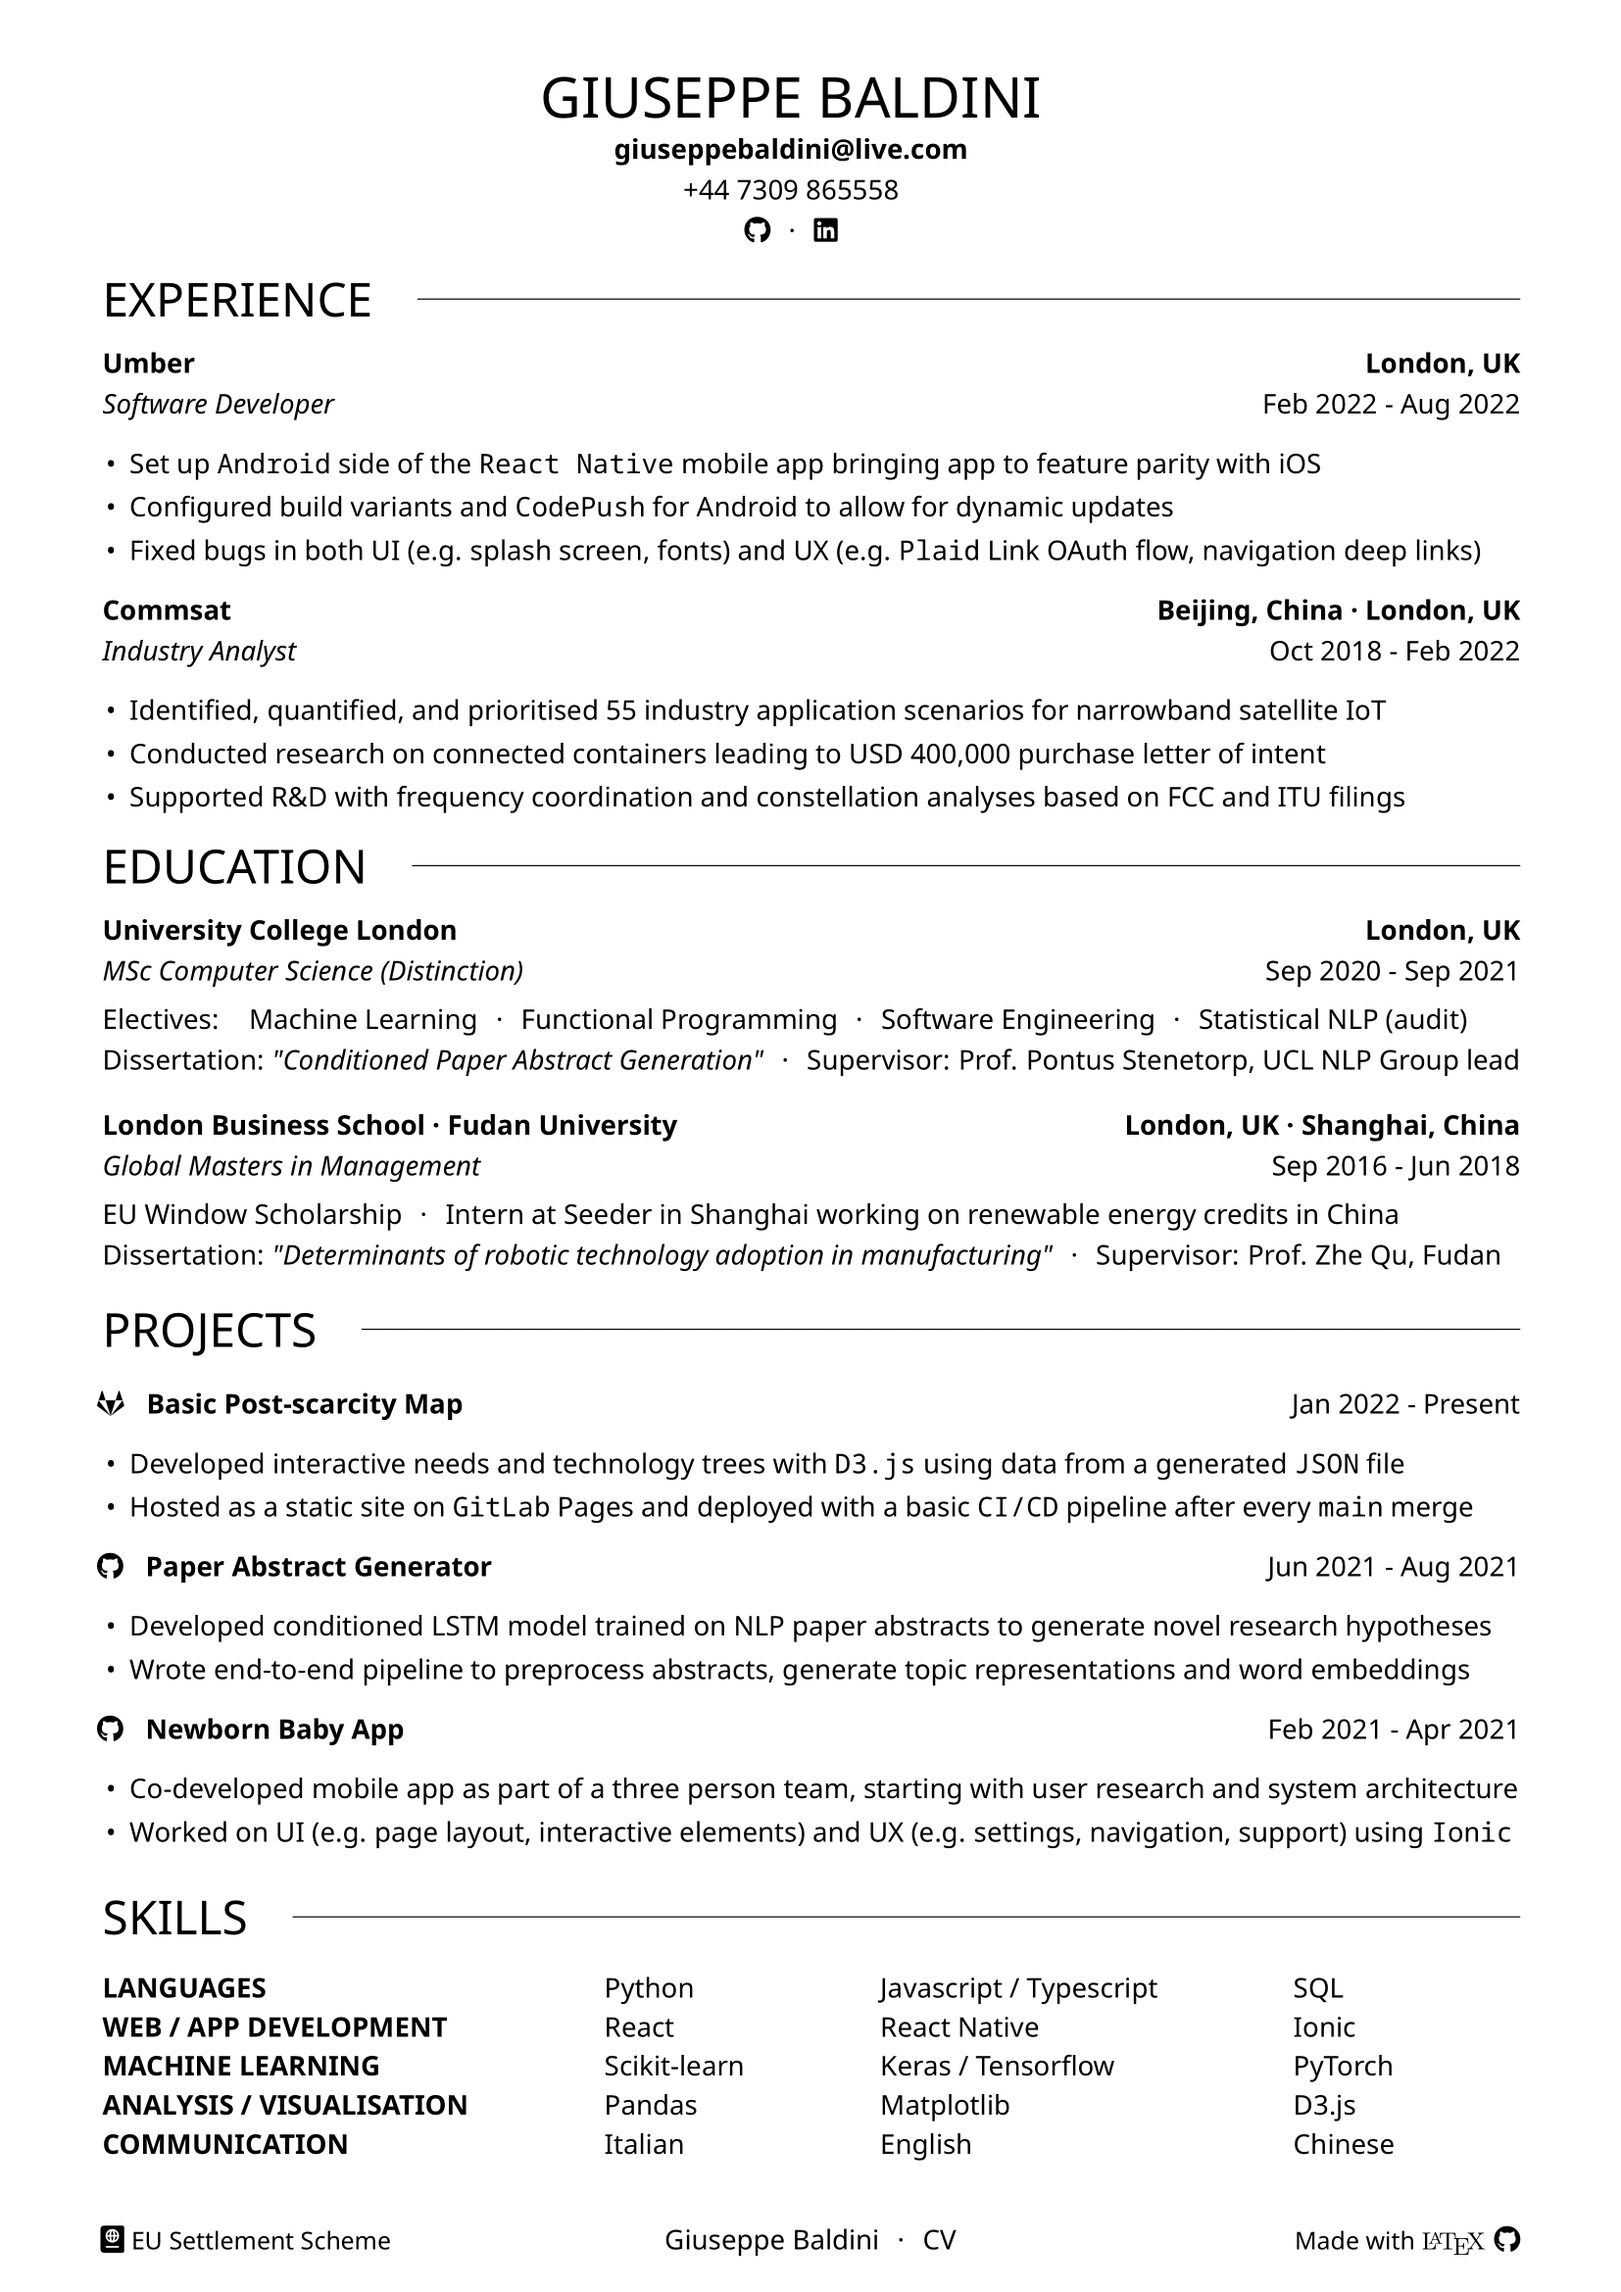
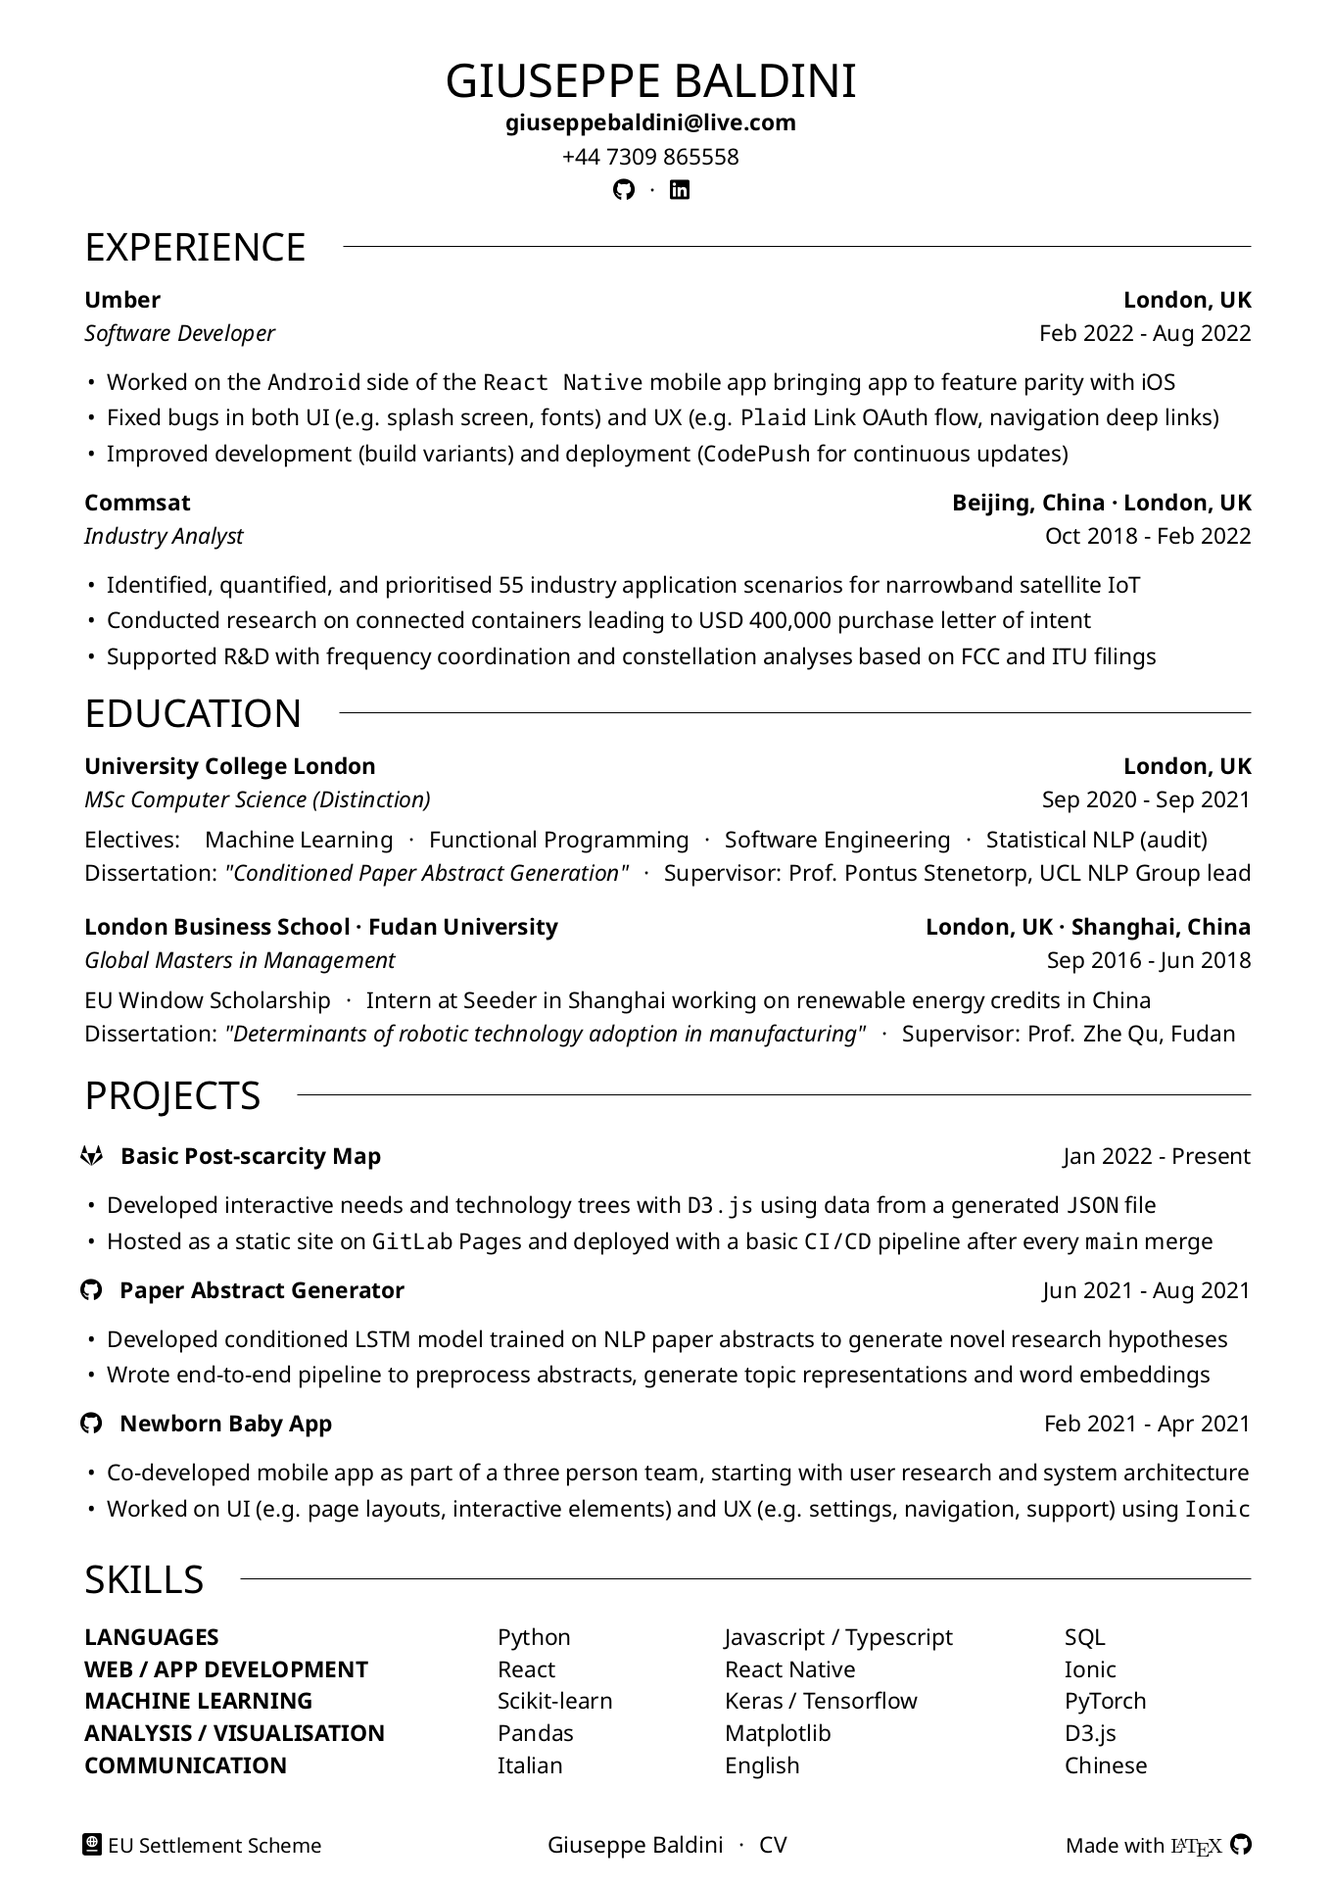
Update image in README

diff --git a/cv/experience.tex b/cv/experience.tex
@@ -6,7 +6,7 @@
 {Software Developer}                                {Feb 2022}{Aug 2022}
 {Worked on the \code{Android} side of the \code{React Native} mobile app bringing app to feature parity with iOS}
 {Fixed bugs in both UI (e.g. splash screen, fonts) and UX (e.g. \code{Plaid} Link OAuth flow, navigation deep links)}
-{Improved development (build variants) and deployment (\code{CodePush} for Android for continuous updates)}
+{Improved development (build variants) and deployment (\code{CodePush} for continuous updates)}
 
 % --- Experience 2 ---
 
